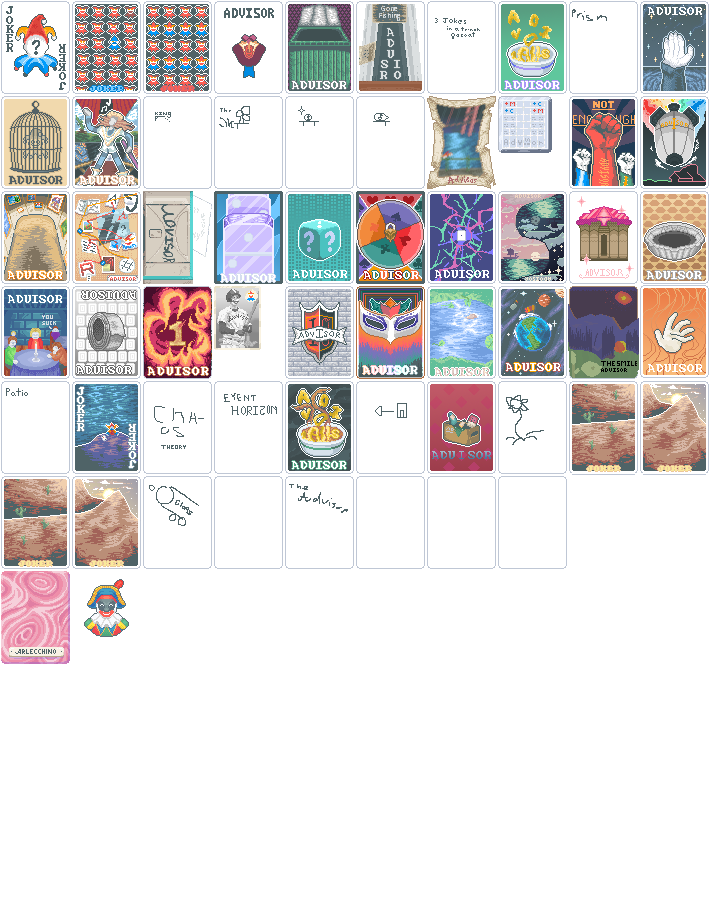
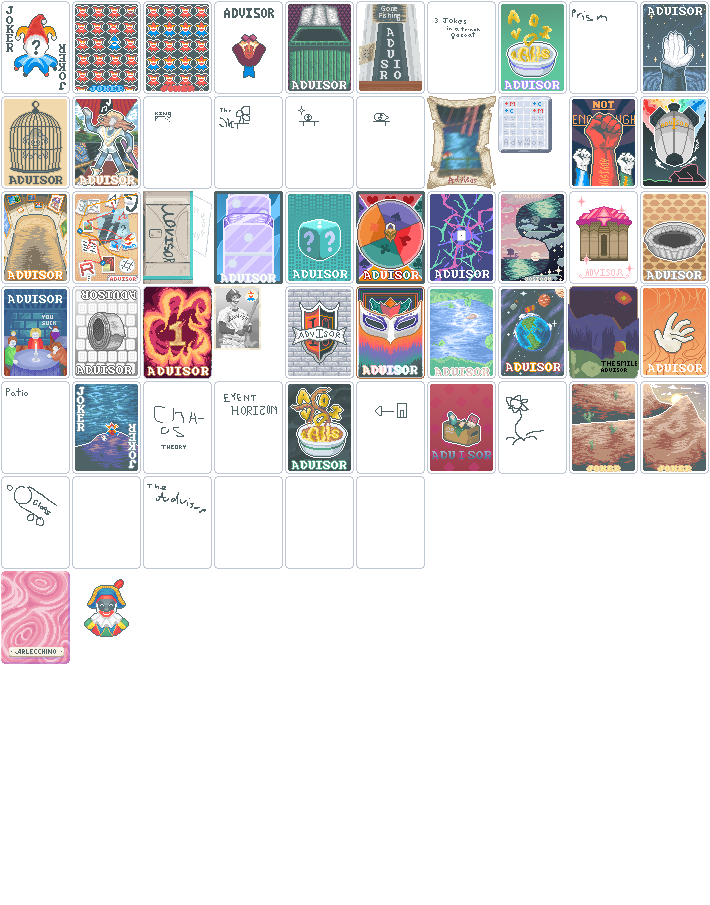
small changes

Changed region(s): [[0.0, 0.526, 0.2789, 0.6497], [0.6817, 0.526, 0.7127, 0.5569], [0.4028, 0.526, 0.4338, 0.5569]]

diff --git a/README.md b/README.md
@@ -9,4 +9,4 @@ As of this version, Royal Gallery currently adds
 * with way more to come trust
 
 # Dependencies / Installation
-- Requires [Steamodded 1014a+](https://github.com/Steamodded/smods/releases)
+- Requires [Steamodded 1814a+](https://github.com/Steamodded/smods/releases)
